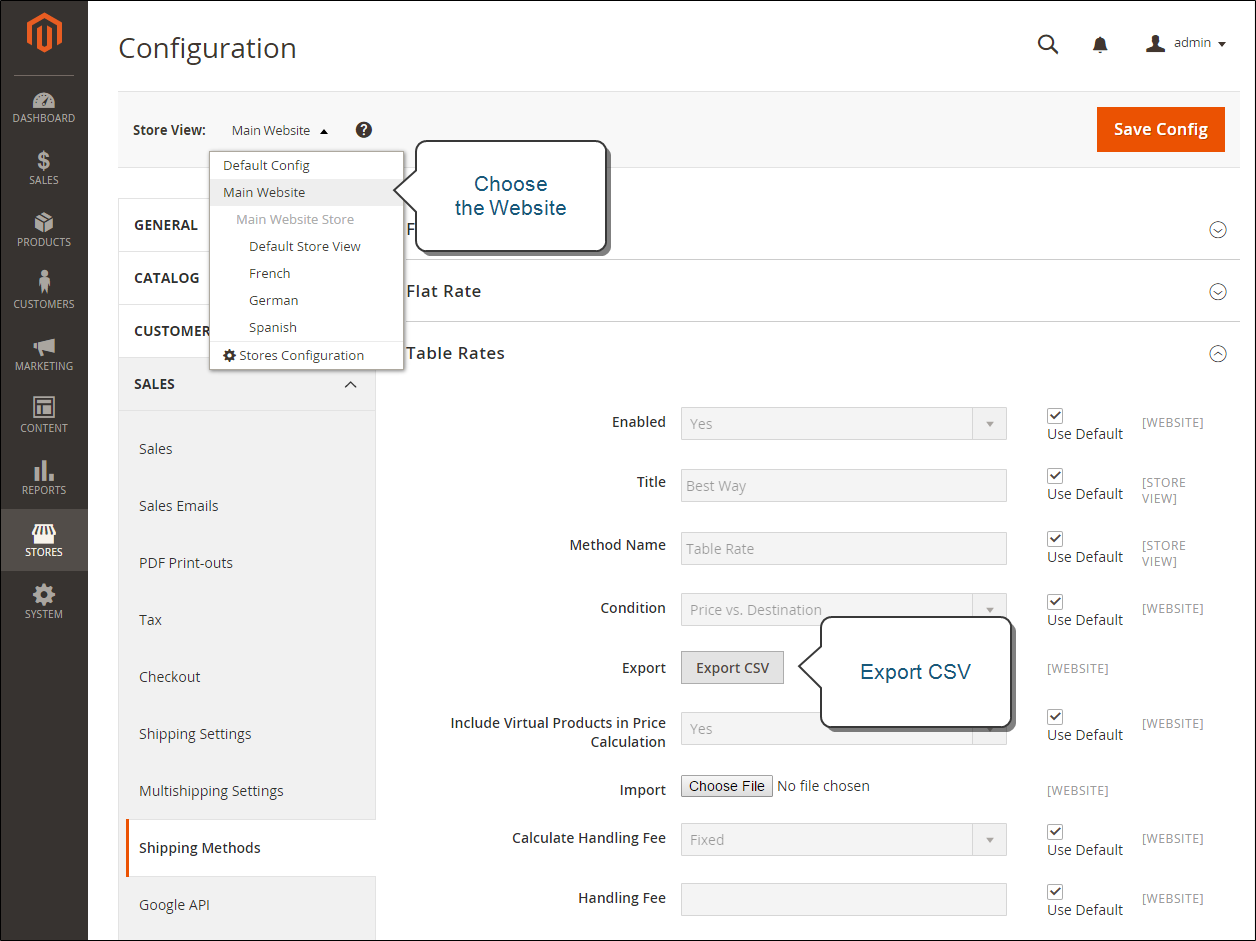
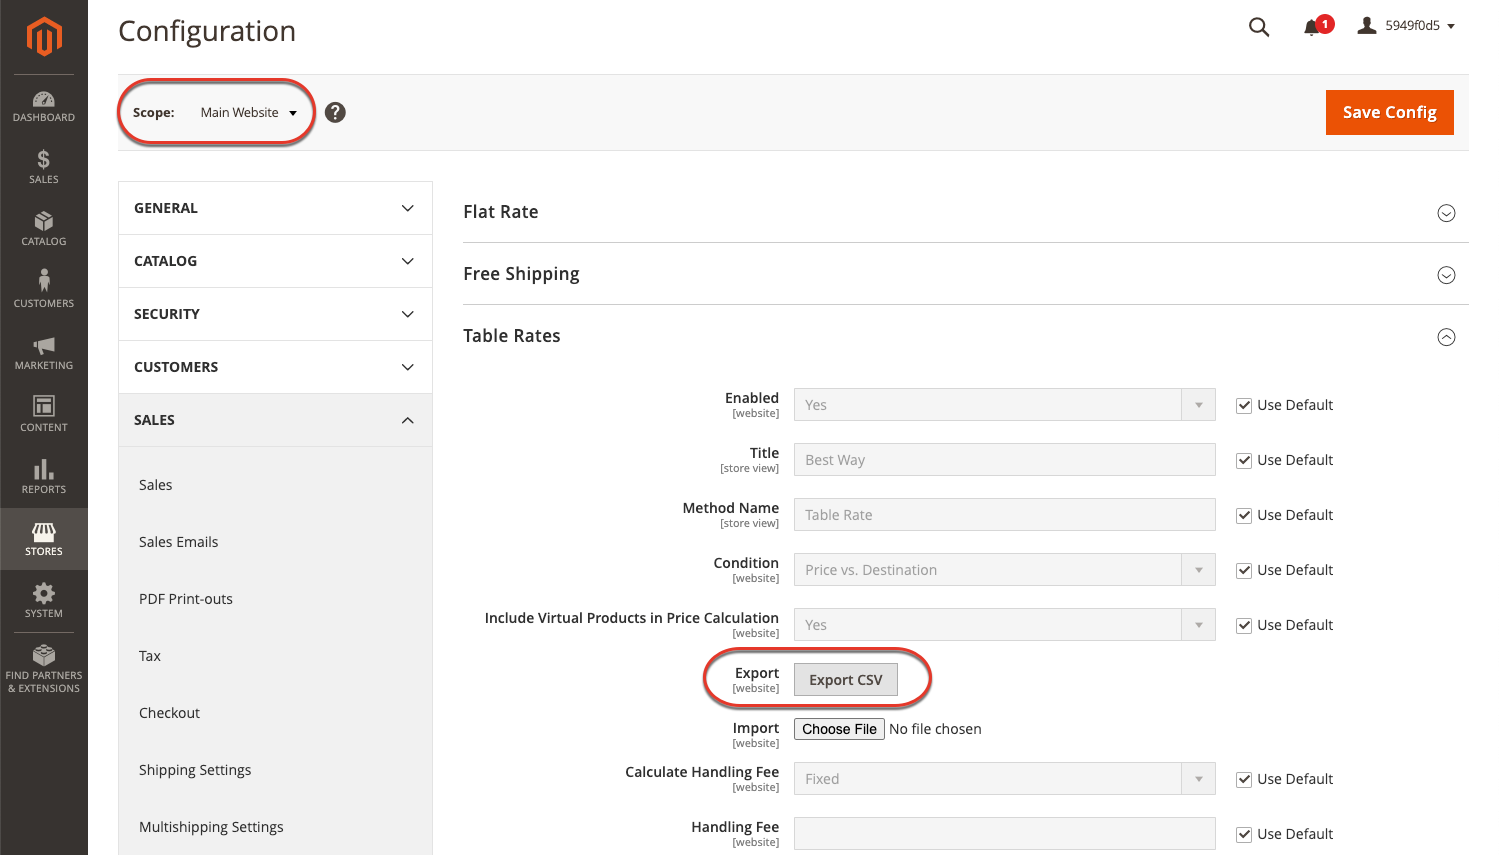
Remove image balloons and update table rates

diff --git a/src/shipping/shipping-table-rate.md b/src/shipping/shipping-table-rate.md
@@ -84,7 +84,7 @@ The first step is to complete the default settings for table rates. You can comp
 
    When prompted to confirm, click **OK**.
 
-   The Export and Import options now appear in the Table Rates section, with “Use Default” checkboxes to the right of each option.
+   The Export and Import options now appear in the Table Rates section, with _Use Default_ checkboxes to the right of each option.
 
    {:.bs-callout-info}
    To change any of the current settings, you must first clear the _Use Default_ checkbox.
@@ -95,7 +95,7 @@ The first step is to complete the default settings for table rates. You can comp
 
 1. Click **Export CSV**.
 
-1. Save the `tablerates.csv` file to your computer.
+1. Save the `table-rates.csv` file to your computer.
 
    ![]({% link images/images/shipping-table-rates-export.png %}){: .zoom}
    _Export CSV_
@@ -111,7 +111,7 @@ The first step is to complete the default settings for table rates. You can comp
    ![]({% link images/images/table-rates-weight-destination-csv.png %}){: .zoom}
    _Weight vs. Destination (Australia)_
 
-1. Save the `tablerates.csv` file.
+1. Save the `table-rates.csv` file.
 
 ### Example 1: Price v. destination
 
@@ -150,7 +150,7 @@ This example uses the _Weight v. Destination_ condition to create different ship
 
 This example uses the _Price v. Destination_ condition to determine if free shipping is available based on the destination.
 
-In the `tablerates.csv` file, include all the state destinations to which you are willing to provide free shipping. Complete the table rate configuration with the following settings:
+In the `table-rates.csv` file, include all the state destinations to which you are willing to provide free shipping. Complete the table rate configuration with the following settings:
 
    | Setting | Value |
    |----------
@@ -166,10 +166,10 @@ In the `tablerates.csv` file, include all the state destinations to which you ar
 
 1. At the top-left of the configuration page, set **Store View** to the website where this method will be used.
 
-1. Next to _Import_, click **Choose File** and select your completed `tablerates.csv` file for import.
+1. Next to _Import_, click **Choose File** and select your completed `table-rates.csv` file for import.
 
    ![]({% link images/images/shipping-table-rates-import.png %}){: .zoom}
-   _Import Table Rates_
+   _Import table rates_
 
 1. When complete, click <span class="btn">Save Config</span>.
 
